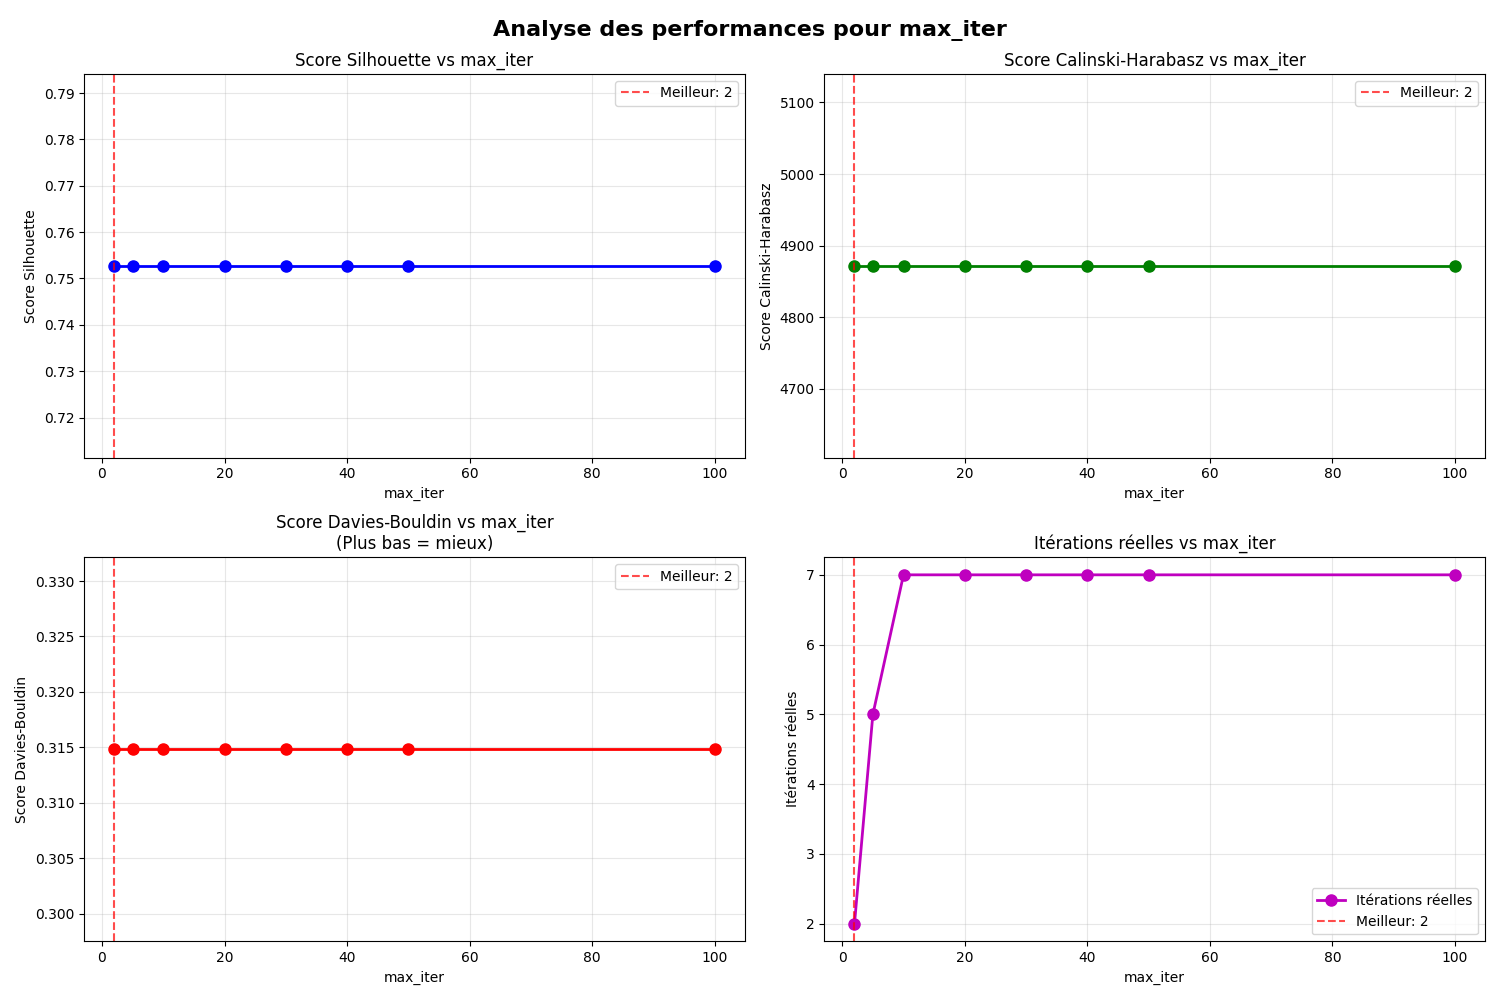
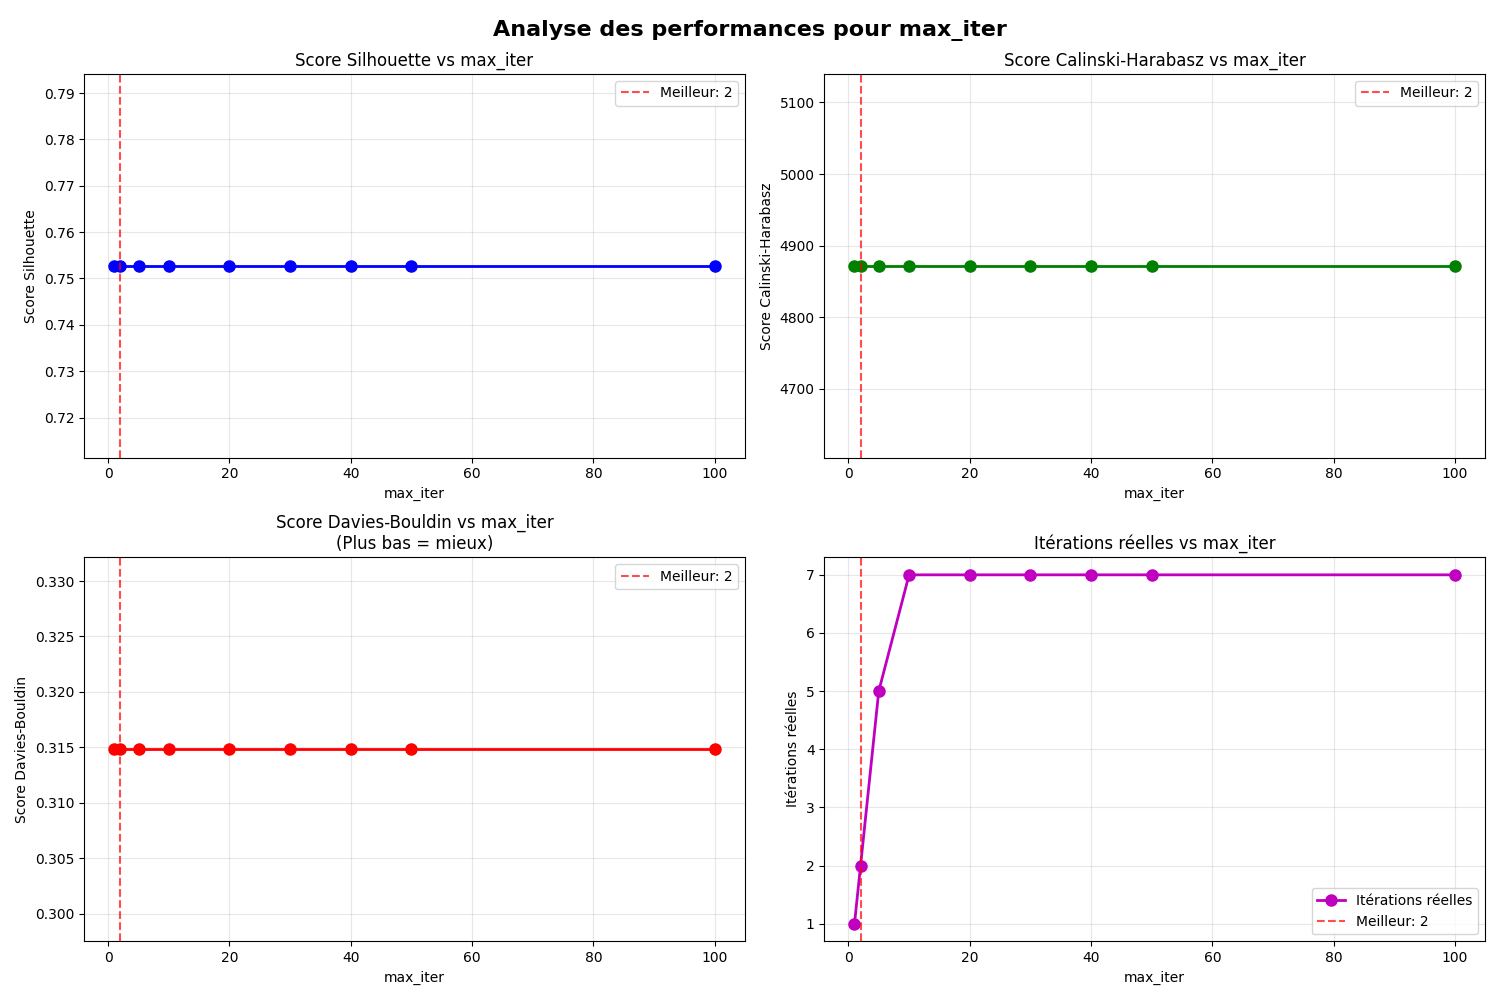
add faiblesse kmean

diff --git a/src/kmean.py b/src/kmean.py
@@ -5,7 +5,7 @@ from sklearn.cluster import KMeans
 from sklearn.metrics import silhouette_score, calinski_harabasz_score, davies_bouldin_score
 
 
-dataset = "diamond9" 
+dataset = "cluto-t4-8k"
 
 
 def lire_fichier_arff(chemin_fichier):
@@ -158,7 +158,7 @@ def comparer_init(points, n_clusters=3, max_iter=300, n_init=1):
     
     df = pd.DataFrame(resultats)
     print("\nComparaison des méthodes d'initialisation")
-    print(df.to_string(f"src/assets/kmean/comparaison_init_{dataset}.csv", index=False))
+    print(df.to_markdown(f"src/assets/kmean/comparaison_init_{dataset}.md", index=False))
     return df
 
 def visualiser_clusters_finaux(points, config_optimale):
@@ -219,32 +219,37 @@ def tester_hyperparametres_complet(chemin_fichier):
     meilleur_k = tester_hyperparametre(
         points, 
         'n_clusters', 
-        [3,4,5,6,7,8,9,10,11,12,13,14,15,16],
+        [2,3,4,5,6,7,8,9],
         config
     )
     config['n_clusters'] = meilleur_k
     
     # 2. Test init
-    comparer_init(points, n_clusters=meilleur_k, max_iter=300, n_init=10)
+    comparer_init(points, n_clusters=meilleur_k, max_iter=300, n_init=1)
     
     # 3. Test max_iter
     meilleur_max_iter = tester_hyperparametre(
         points,
         'max_iter',
-        [2, 5, 10, 20, 30, 40, 50, 100],
+        [1, 2, 5, 10, 20, 30, 40, 50, 100],
         config
     )
     config['max_iter'] = meilleur_max_iter
     
     # Résumé final et visualisation
-    print("\n" + "=" * 50)
-    print("CONFIGURATION OPTIMALE")
-    print("=" * 50)
+    resume_md = []
+
+    resume_md.append(" _CONFIGURATION OPTIMALE_\n")
+
     for param, valeur in config.items():
-        print(f"{param}: {valeur}")
+        ligne = f"- _{param}_ : {valeur}"
+        print(ligne)
+        resume_md.append(ligne)
+
+    with open(f"src/assets/kmean/config_optimale_{dataset}.md", "w") as f:
+        f.write("\n".join(resume_md))
     
     # Visualisation finale des clusters
-    print("\nVISUALISATION DES CLUSTERS FINAUX")
     visualiser_clusters_finaux(points, config)
 
 # Test dans le main

diff --git a/README.md b/README.md
@@ -1,5 +1,5 @@
-Elian BOAGLIO
-Sophie LARGE
+Elian BOAGLIO  
+Sophie LARGE  
 _5 SDBD B1_
 
 # Clustering
@@ -9,7 +9,7 @@ _5 SDBD B1_
 ### Principe de la méthode
 
 La méthode k-means est une méthode de partionnement qui a pour objectif de minimiser la distance intra-cluster.
-Cette méthode permet de partager un ensemble de points en un nombre donnée de clusters (k). Chaque cluster sera par la suite représenter par un unique point. Cette méthode s'appuie sur l'algothime de Lloyd. \n
+Cette méthode permet de partager un ensemble de points en un nombre donnée de clusters (k). Chaque cluster sera par la suite représenter par un unique point. Cette méthode s'appuie sur l'algothime de Lloyd.
 
 Il existe plusieurs déclinaisons de cette méthode :
 
@@ -23,40 +23,133 @@ Il existe plusieurs déclinaisons de cette méthode :
 1. **Initialisation** : Positionne les centres initiaux des k clusters, soit avec la méthode "k-means++" soit avec celle "random".
 2. **Création de groupes** : Pour chaque point du jeu de données, l'algorithme l'affecte à un des clusters créés précédemment.
 3. **Mise à jour** : On recalcule les centres de chaque cluster.
-4. **Attente qu'une condition d'arrêt soit complétée** :
+4. **Attente qu'une condition d'arrêt soit complétée**
 
 ### Hyperparamètres
 
-- **n_clusters ou k** : \n
+- **n_clusters ou k** :
   C'est le nombre de cluster que l'on veut.
-- **init** : \n
-  Ce paramètre permet de choisir la méthode d'initalisation des centroïdes. \n
-  Ses valeurs possibles sont : - _random_ : choisit aléatoirement les centres initiaux. Cette méthode est plus rapide mais moins fiable. - _k-means++ (par défaut)_ : calcule en amont les écarts entre chaque centre inital pour les placer de manière optimale.
-- **n_init** : \n
+- **init** :
+  Ce paramètre permet de choisir la méthode d'initalisation des centroïdes.
+  Ses valeurs possibles sont :
+  - _random_ : choisit aléatoirement les centres initiaux. Cette méthode est plus rapide mais moins fiable.
+  - _k-means++ (par défaut)_ : calcule en amont les écarts entre chaque centre inital pour les placer de manière optimale.
+- **n_init** :
   Cela correspond au nombre de graines aléatoires pour l'initialisation.
-- **max_iter** : \n
+- **max_iter** :
   Avec ce paramètre, nous pouvons limiter le nombre d'itérations de notre recherche. Il permet d'éviter les boucles infinis.
-- **tol** : \n
+- **tol** :
   C'est une condition d'arrêt qui repose sur la stabilisation des centres, c'est-à-dire que l'algorithme s'arrête lorsque les centres ne bougent presque plus.
-- **algorithm** : \n
+- **algorithm** :
   Ici nous choississons l'algorithme qui réalisera le clustering. Par défaut, l'algorithme choisi est celui de Lloyd.
 
 ### Hyperparamètres testés
 
-Nous avons choisi de faire varier 3 paramètres : **k**, **init** et **max_iter**. \n
+Nous avons choisi de faire varier 3 paramètres : **k**, **init** et **max_iter**.  
 Pour cela nous avons étudié 3 datasets différents : spherical_6_2, R15 et diamond9.
 Ces 3 jeux de points ont des caractéristiques similaires. En effet, ils ont très peu de bruits et les clusters sont symétriques et distincts.
 
 #### Spherical_6_2
 
+_CONFIGURATION OPTIMALE_
+
+- _n_init_ : 10
+- _random_state_ : 42
+- _n_clusters_ : 6
+- _max_iter_ : 1
+
+| Init      | Silhouette | Calinski-Harabasz | Davies-Bouldin | Score combiné |
+| :-------- | ---------: | ----------------: | -------------: | ------------: |
+| k-means++ |      0.748 |           2713.65 |          0.355 |         1.544 |
+| random    |      0.397 |           154.076 |          0.945 |          0.39 |
+
 ![image](src/assets/kmean/test_n_clusters_spherical_6_2.png)
-![image](src/assets/kmean/comparaison_init.csv)
 ![image](src/assets/kmean/test_max_iter_spherical_6_2.png)
 ![image](src/assets/kmean/clusters_finaux_spherical_6_2.png)
+
+#### R15
+
+_CONFIGURATION OPTIMALE_
+
+- _n_init_ : 10
+- _random_state_ : 42
+- _n_clusters_ : 15
+- _max_iter_ : 2
+
+| Init      | Silhouette | Calinski-Harabasz | Davies-Bouldin | Score combiné |
+| :-------- | ---------: | ----------------: | -------------: | ------------: |
+| k-means++ |      0.753 |           4871.98 |          0.315 |         2.231 |
+| random    |      0.537 |           1849.48 |          0.742 |         1.012 |
+
+![image](src/assets/kmean/test_n_clusters_R15.png)
+![image](src/assets/kmean/test_max_iter_R15.png)
+![image](src/assets/kmean/clusters_finaux_R15.png)
+
+#### Diamond9
+
+_CONFIGURATION OPTIMALE_
+
+- _n_init_ : 10
+- _random_state_ : 42
+- _n_clusters_ : 9
+- _max_iter_ : 2
+
+| Init      | Silhouette | Calinski-Harabasz | Davies-Bouldin | Score combiné |
+| :-------- | ---------: | ----------------: | -------------: | ------------: |
+| k-means++ |      0.549 |           5855.15 |          0.553 |         2.267 |
+| random    |      0.461 |           3930.13 |          0.753 |         1.589 |
+
+![image](src/assets/kmean/test_n_clusters_diamond9.png)
+![image](src/assets/kmean/test_max_iter_diamond9.png)
+![image](src/assets/kmean/clusters_finaux_diamond9.png)
+
+### Faiblesse
+
+Nous avons fait des tests avec des jeux de points aux caractéristes éloignés des 3 premires. En effet, les jeux _dpb_ et _cluto-t4-8k_ ont pas du bruit, ce qui rend les clusters moins repérables. De plus, les clusters ne sont plus en forme de bulle, ce qui mets à mal notre algorithme.
+
+#### dpb
+
+_CONFIGURATION OPTIMALE_
+
+- _n_init_ : 10
+- _random_state_ : 42
+- _n_clusters_ : 8
+- _max_iter_ : 20
+
+| Init      | Silhouette | Calinski-Harabasz | Davies-Bouldin | Score combiné |
+| :-------- | ---------: | ----------------: | -------------: | ------------: |
+| k-means++ |      0.463 |              4296 |          0.682 |         1.713 |
+| random    |      0.443 |           3797.34 |          0.691 |          1.55 |
+
+![image](src/assets/kmean/test_n_clusters_dpb.png)
+![image](src/assets/kmean/test_max_iter_dpb.png)
+![image](src/assets/kmean/clusters_finaux_dpb.png)
+
+En réalité, nous aurions dû trouver 5 clusters.
+
+#### cluto-t4-8k
+
+_CONFIGURATION OPTIMALE_
+
+- _n_init_ : 10
+- _random_state_ : 42
+- _n_clusters_ : 2
+- _max_iter_ : 5
+
+| Init      | Silhouette | Calinski-Harabasz | Davies-Bouldin | Score combiné |
+| :-------- | ---------: | ----------------: | -------------: | ------------: |
+| k-means++ |      0.507 |           13050.2 |          0.738 |         4.355 |
+| random    |      0.507 |           13050.2 |          0.738 |         4.355 |
+
+![image](src/assets/kmean/test_n_clusters_cluto-t4-8k.png)
+![image](src/assets/kmean/test_max_iter_cluto-t4-8k.png)
+![image](src/assets/kmean/clusters_finaux_cluto-t4-8k.png)
+
+En réalité, nosu aurions du trouvé 6 clusters.
 
 ## Agglomératif : Cluserting Ascendant
 
 ### Principe
 
-Initialement, chaque point est un cluster. Ensuite on essaie de les regrouper selon leur ressemblace, avec des calcul de similarité. On effectue des fuciosn jusqu'à n'avoir plus qu'un seul cluster.
+Initialement, chaque point est un cluster. Ensuite on essaie de les regrouper selon leur ressemblace, avec des calcul de similarité. On effectue des fuciosn jusqu'à n'avoir plus qu'un seul cluster.  
 Cette méthode se différencie des clusterings descendants qui prennent initialement un seul culster et cherchent à avoir autant de clusters que de points.

diff --git a/src/assets/kmean/comparaison_init_R15.md b/src/assets/kmean/comparaison_init_R15.md
@@ -1,0 +1,4 @@
+| Init      |   Silhouette |   Calinski-Harabasz |   Davies-Bouldin |   Score combiné |
+|:----------|-------------:|--------------------:|-----------------:|----------------:|
+| k-means++ |        0.753 |             4871.98 |            0.315 |           2.231 |
+| random    |        0.537 |             1849.48 |            0.742 |           1.012 |

diff --git a/src/assets/kmean/comparaison_init_cluto-t4-8k.md b/src/assets/kmean/comparaison_init_cluto-t4-8k.md
@@ -1,0 +1,4 @@
+| Init      |   Silhouette |   Calinski-Harabasz |   Davies-Bouldin |   Score combiné |
+|:----------|-------------:|--------------------:|-----------------:|----------------:|
+| k-means++ |        0.507 |             13050.2 |            0.738 |           4.355 |
+| random    |        0.507 |             13050.2 |            0.738 |           4.355 |

diff --git a/src/assets/kmean/comparaison_init_diamond9.md b/src/assets/kmean/comparaison_init_diamond9.md
@@ -1,0 +1,4 @@
+| Init      |   Silhouette |   Calinski-Harabasz |   Davies-Bouldin |   Score combiné |
+|:----------|-------------:|--------------------:|-----------------:|----------------:|
+| k-means++ |        0.549 |             5855.15 |            0.553 |           2.267 |
+| random    |        0.461 |             3930.13 |            0.753 |           1.589 |

diff --git a/src/assets/kmean/comparaison_init_dpb.md b/src/assets/kmean/comparaison_init_dpb.md
@@ -1,0 +1,4 @@
+| Init      |   Silhouette |   Calinski-Harabasz |   Davies-Bouldin |   Score combiné |
+|:----------|-------------:|--------------------:|-----------------:|----------------:|
+| k-means++ |        0.463 |             4296    |            0.682 |           1.713 |
+| random    |        0.443 |             3797.34 |            0.691 |           1.55  |

diff --git a/src/assets/kmean/comparaison_init_spherical_6_2.md b/src/assets/kmean/comparaison_init_spherical_6_2.md
@@ -1,0 +1,4 @@
+| Init      |   Silhouette |   Calinski-Harabasz |   Davies-Bouldin |   Score combiné |
+|:----------|-------------:|--------------------:|-----------------:|----------------:|
+| k-means++ |        0.748 |            2713.65  |            0.355 |           1.544 |
+| random    |        0.397 |             154.076 |            0.945 |           0.39  |

diff --git a/src/assets/kmean/comparaison_init_zelnik4.md b/src/assets/kmean/comparaison_init_zelnik4.md
@@ -1,0 +1,4 @@
+| Init      |   Silhouette |   Calinski-Harabasz |   Davies-Bouldin |   Score combiné |
+|:----------|-------------:|--------------------:|-----------------:|----------------:|
+| k-means++ |        0.673 |             996.107 |            0.462 |           0.919 |
+| random    |        0.673 |             996.173 |            0.463 |           0.919 |

diff --git a/src/assets/kmean/config_optimale_R15.md b/src/assets/kmean/config_optimale_R15.md
@@ -1,0 +1,6 @@
+ _CONFIGURATION OPTIMALE_
+
+- _n_init_ : 10
+- _random_state_ : 42
+- _n_clusters_ : 15
+- _max_iter_ : 2

diff --git a/src/assets/kmean/config_optimale_dpb.md b/src/assets/kmean/config_optimale_dpb.md
@@ -1,0 +1,6 @@
+ _CONFIGURATION OPTIMALE_
+
+- _n_init_ : 10
+- _random_state_ : 42
+- _n_clusters_ : 8
+- _max_iter_ : 20

diff --git a/src/assets/kmean/config_optimale_cluto-t4-8k.md b/src/assets/kmean/config_optimale_cluto-t4-8k.md
@@ -1,0 +1,6 @@
+ _CONFIGURATION OPTIMALE_
+
+- _n_init_ : 10
+- _random_state_ : 42
+- _n_clusters_ : 2
+- _max_iter_ : 5

diff --git a/src/assets/kmean/config_optimale_diamond9.md b/src/assets/kmean/config_optimale_diamond9.md
@@ -1,0 +1,6 @@
+ _CONFIGURATION OPTIMALE_
+
+- _n_init_ : 10
+- _random_state_ : 42
+- _n_clusters_ : 9
+- _max_iter_ : 2
